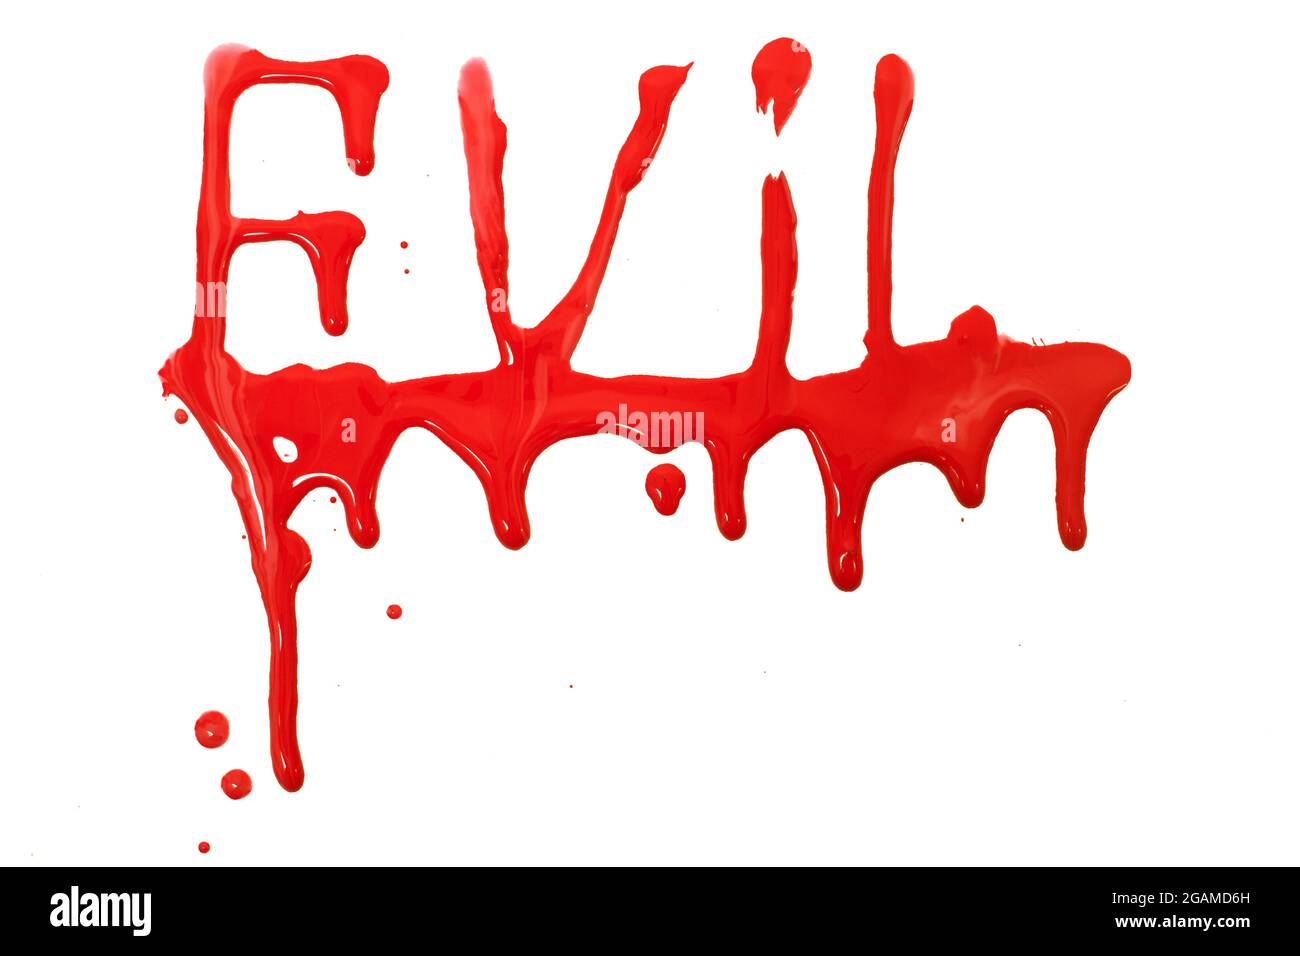
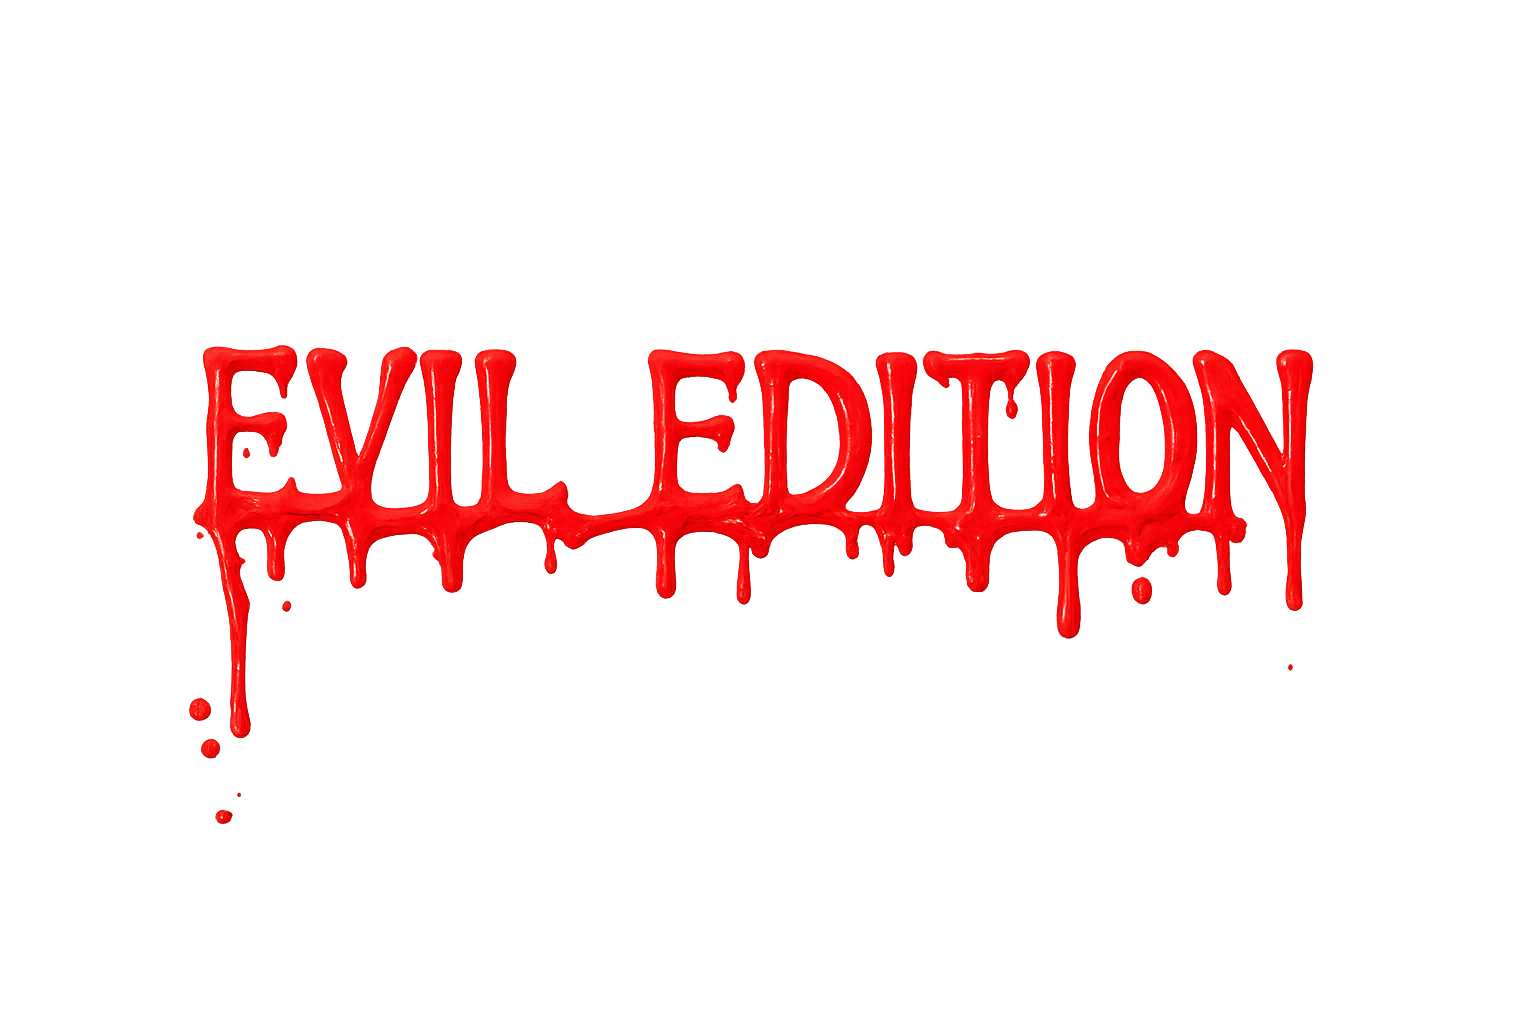
fix: menu graphics are sub par Fixes #11

Changed region(s): [[0.1231, 0.0303, 0.8923, 0.8494], [0.0, 0.8797, 1.0, 1.0], [0.2769, 0.637, 0.3077, 0.6674]]

diff --git a/settings.py b/settings.py
@@ -49,8 +49,8 @@ sb = pygame.image.load(chess.resource_path(r"pieces\ws.png"))
 soldier_button = pygame.transform.scale(sb, (chess.SQUARE_SIZE, chess.SQUARE_SIZE))
 
 e = pygame.image.load(chess.resource_path(r"pieces\evil.png"))
-evil_text = pygame.transform.scale(e, (chess.SQUARE_SIZE * 2, chess.SQUARE_SIZE))
-evil_rect = evil_text.get_rect(center=(chess.WIDTH // 2, (chess.HEIGHT // 4) - chess.SQUARE_SIZE))
+evil_text = pygame.transform.scale(e, (chess.SQUARE_SIZE * 4, chess.SQUARE_SIZE*2))
+evil_rect = evil_text.get_rect(center=(chess.WIDTH // 2, (chess.HEIGHT // 4) + chess.SQUARE_SIZE * 0.79))
 
 def main():
     global restart_requested, evil_mode

diff --git a/README.md b/README.md
@@ -38,6 +38,7 @@ If `pip` is not installed, download it from:
 ---
 
 ## Features
+
 - Standard chess pieces and ruleset  
 - Sleek and stylish UI  
 - A strong AI to challenge players  
@@ -48,6 +49,7 @@ If `pip` is not installed, download it from:
 making a proper ai was never my intention, but the infastructure is there and there is some basic logic behind it although right now it not very strong and tends to really like certian openings
 
 ## Contributing
+
 This is currently a solo project. You are welcome to fork the repository, but pull requests are not being accepted at this time.  
 If you have suggestions or want to contribute, please open an issue.
 
